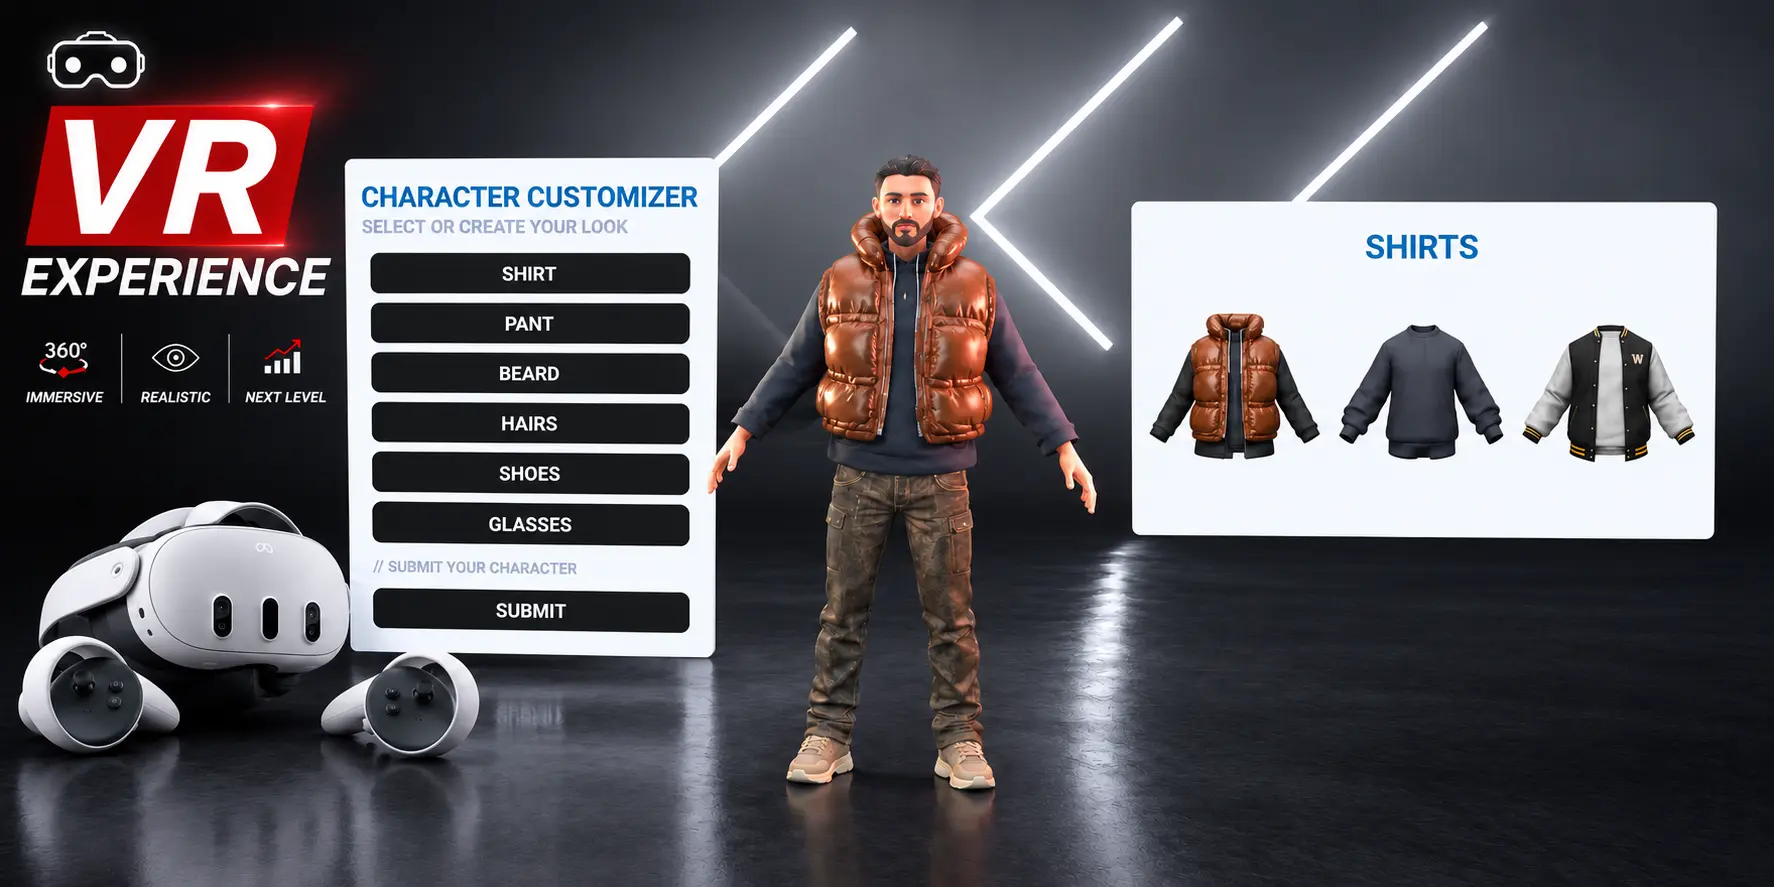
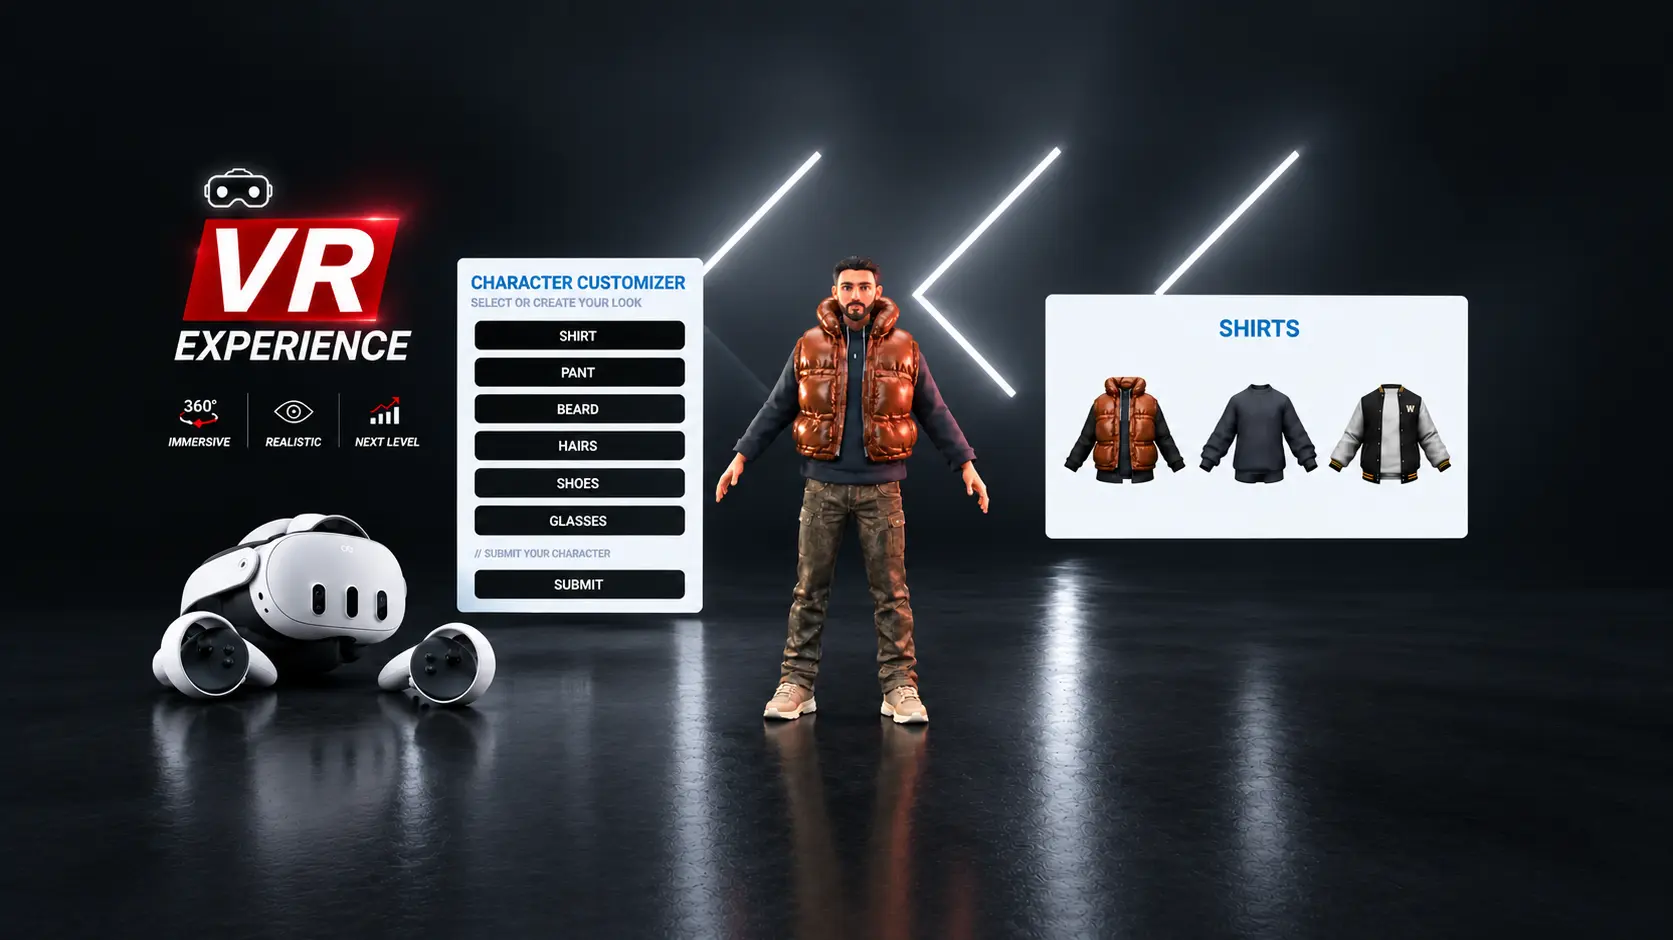
Add 360 Tour projects with Coming Soon badges and fix thumbnails, disable footer spotlight on mobile

diff --git a/components/LatestWorkGallery.tsx b/components/LatestWorkGallery.tsx
@@ -77,6 +77,8 @@ type Project = {
   projectUrl?: string;
   isVideo: boolean;
   gallery?: string[]; // Array of images for carousel modal
+  comingSoon?: boolean; // Flag for coming soon projects
+  objectFit?: 'cover' | 'contain'; // Custom object-fit for thumbnails that need it
 };
 
 // ── YouTube video helper ───────────────────────────────────────────────────
@@ -85,7 +87,8 @@ function yt(
   title: string,
   category: CategoryType | CategoryType[] = 'Animations',
   imageUrl?: string,
-  brand?: string
+  brand?: string,
+  objectFit?: 'cover' | 'contain'
 ): Project {
   return {
     id,
@@ -95,6 +98,7 @@ function yt(
     imageUrl: imageUrl || `/images/case-studies/${id}.webp`,
     embedUrl: `https://www.youtube.com/embed/${id}?rel=0`,
     isVideo: true,
+    objectFit,
   };
 }
 
@@ -102,7 +106,8 @@ function yt_drone(
   id: string,
   title: string,
   category: CategoryType | CategoryType[] = ['Drone', 'Animations', '360 Tour'],
-  brand?: string
+  brand?: string,
+  objectFit?: 'cover' | 'contain'
 ): Project {
   return {
     id,
@@ -112,6 +117,7 @@ function yt_drone(
     imageUrl: `/images/case-studies/${id}.webp`,
     embedUrl: `https://www.youtube.com/embed/${id}?rel=0`,
     isVideo: true,
+    objectFit,
   };
 }
 
@@ -122,7 +128,9 @@ function imgProject(
   path: string,
   category: CategoryType | CategoryType[] = 'Interior & Construction',
   brand?: string,
-  gallery?: string[]
+  gallery?: string[],
+  comingSoon?: boolean,
+  objectFit?: 'cover' | 'contain'
 ): Project {
   return {
     id,
@@ -132,6 +140,8 @@ function imgProject(
     imageUrl: path,
     isVideo: false,
     gallery,
+    comingSoon,
+    objectFit,
   };
 }
 
@@ -168,8 +178,8 @@ const ALL_PROJECTS: Project[] = [
   yt('SXNb1vR_snw', 'NS Arcade | 3D Animation', ['Animations'], undefined, 'NS Arcade'),
   yt('Jq_njk26M3E', 'Commtel | 3D Design & Animation', ['Animations'], undefined, 'Commtel'),
   yt('7JT-j8gz5uU', 'Luxury Watch 3D animation', ['Animations'], undefined, 'Luxury Watch'),
-  yt('8-daQ4f573M', 'VR Experience', 'VR', '/portfolio/VR.webp', 'VR Experience'),
-  yt_drone('7wRGPltVun4', 'Jaguar Builder', ['Drone'], 'Jaguar'),
+  yt('8-daQ4f573M', 'VR Experience', 'VR', '/portfolio/VR.webp', 'VR Experience', 'contain'),
+  yt_drone('7wRGPltVun4', 'Jaguar Builder', ['Drone'], 'Jaguar', 'contain'),
   yt_drone('YvvRPa5zVAM', 'Ahsan Town Project', ['Drone'], 'Ahsan Town'),
   yt_drone('NJgPMovdV2Y', 'Al Jannat Farmhouse', ['Drone'], 'Al Jannat'),
   yt('QhWmY9lXlZY', 'Modern Apartment Interior Design', ['Animations'], undefined, 'Modern Apartment'),
@@ -219,6 +229,8 @@ const ALL_PROJECTS: Project[] = [
       '/portfolio/dha-suffa-4.webp',
     ]
   ),
+  imgProject('img-esouth', 'E-South 360 Tour', '/portfolio/e-south.webp', '360 Tour', 'E-South', undefined, true),
+  imgProject('img-amna', 'Amna Ashraf 360 Tour', '/portfolio/amna-ashraf.webp', '360 Tour', 'Amna Ashraf', undefined, true),
 ];
 
 // Base grid-reveal variants used for the initial whileInView entrance. Only
@@ -301,10 +313,10 @@ const ProjectCard = React.memo(({
         alt={project.title}
         fill
         sizes="(max-width: 768px) 100vw, (max-width: 1024px) 50vw, 33vw"
-        quality={75}
+        quality={90}
         loading={index < INITIAL_COUNT ? 'eager' : 'lazy'}
         priority={index < INITIAL_COUNT}
-        className="object-cover transition-transform duration-400 ease-out group-hover:scale-110"
+        className={`${project.objectFit === 'contain' ? 'object-contain' : 'object-cover'} object-center transition-transform duration-400 ease-out group-hover:scale-110`}
         unoptimized={false}
       />
       {/* Hover overlay */}
@@ -315,7 +327,15 @@ const ProjectCard = React.memo(({
         <h3 className="text-xl md:text-2xl font-bold uppercase tracking-wider px-6 text-center text-white">
           {project.title}
         </h3>
-        {project.isVideo ? (
+        {project.comingSoon ? (
+          <div className="mt-4 px-5 py-2 rounded-full bg-gradient-to-r from-accent to-accent-dim text-white font-semibold text-xs md:text-sm uppercase tracking-wider flex items-center gap-2 shadow-lg shadow-accent/30">
+            <svg className="w-3.5 h-3.5" viewBox="0 0 24 24" fill="none" stroke="currentColor" strokeWidth="2.5" strokeLinecap="round" strokeLinejoin="round">
+              <circle cx="12" cy="12" r="10"></circle>
+              <polyline points="12 6 12 12 16 14"></polyline>
+            </svg>
+            Coming Soon
+          </div>
+        ) : project.isVideo ? (
           <div className="mt-4 px-5 py-2 rounded-full bg-white text-black font-semibold text-xs md:text-sm uppercase tracking-wider flex items-center gap-2 shadow-lg">
             <svg className="w-3.5 h-3.5 fill-black" viewBox="0 0 24 24">
               <path d="M8 5v14l11-7z" />
@@ -340,12 +360,24 @@ const ProjectCard = React.memo(({
           </div>
         )}
       </div>
+
+      {/* Top-left Coming Soon badge with pulse */}
+      {project.comingSoon && (
+        <div className="absolute top-3 left-3 z-10 flex items-center gap-2 px-3 py-1.5 rounded-full bg-gradient-to-r from-accent to-accent-dim backdrop-blur-sm border border-accent/30 shadow-lg shadow-accent/20 pointer-events-none">
+          <span className="relative flex h-2 w-2">
+            <span className="animate-ping absolute inline-flex h-full w-full rounded-full bg-white opacity-75"></span>
+            <span className="relative inline-flex rounded-full h-2 w-2 bg-white"></span>
+          </span>
+          <span className="text-[10px] font-bold uppercase tracking-wider text-white">Coming Soon</span>
+        </div>
+      )}
+
       {/* Top-right badge (video play icon or web external link icon) */}
-      {project.isVideo ? (
+      {!project.comingSoon && project.isVideo ? (
         <div className="absolute top-3 right-3 z-10 w-8 h-8 rounded-full bg-black/50 border border-white/20 backdrop-blur-sm flex items-center justify-center pointer-events-none">
           <svg className="w-3.5 h-3.5 text-white ml-0.5" fill="currentColor" viewBox="0 0 24 24"><path d="M8 5v14l11-7z" /></svg>
         </div>
-      ) : project.projectUrl ? (
+      ) : !project.comingSoon && project.projectUrl ? (
         <div className="absolute top-3 right-3 z-10 w-8 h-8 rounded-full bg-black/50 border border-white/20 backdrop-blur-sm flex items-center justify-center pointer-events-none">
           <svg className="w-3.5 h-3.5 text-white" viewBox="0 0 24 24" fill="none" stroke="currentColor" strokeWidth="2.5" strokeLinecap="round" strokeLinejoin="round">
             <path d="M18 13v6a2 2 0 0 1-2 2H5a2 2 0 0 1-2-2V8a2 2 0 0 1 2-2h6"></path>

diff --git a/components/FooterInteractiveTitle.tsx b/components/FooterInteractiveTitle.tsx
@@ -26,11 +26,11 @@ export default function FooterInteractiveTitle() {
         onMouseLeave={() => setIsHoveringText(false)}
         onMouseMove={handleTextMouseMove}
       >
-        {/* Glow */}
+        {/* Glow - hidden on mobile screens */}
         <div
           ref={glowRef}
           aria-hidden="true"
-          className="pointer-events-none absolute"
+          className="pointer-events-none absolute hidden md:block"
           style={{
             width: '350px',
             height: '350px',
